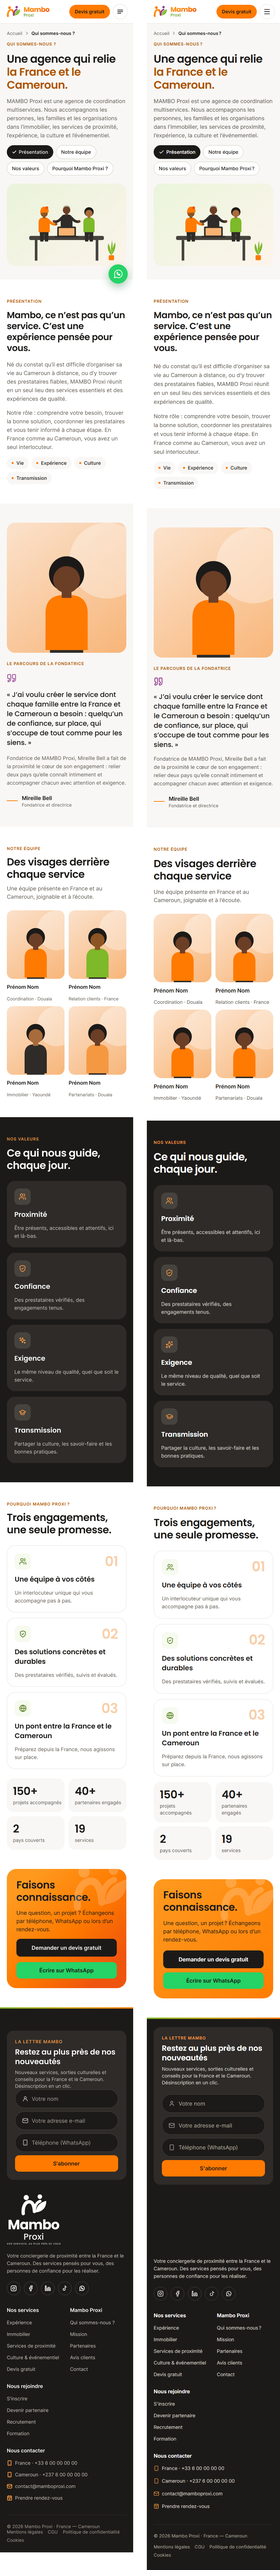
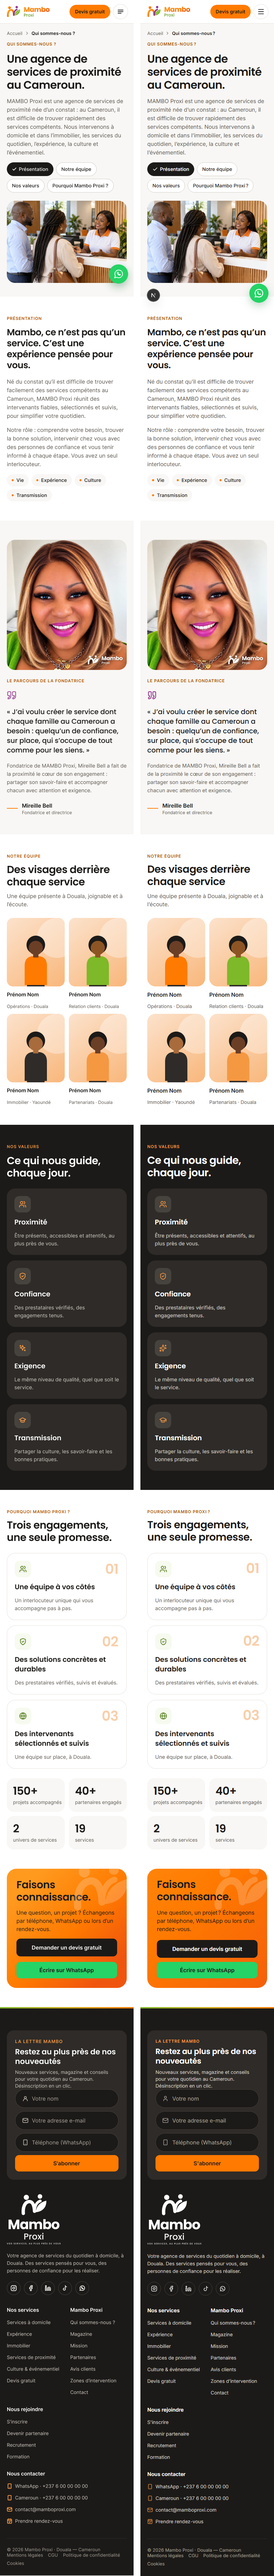
feat(pages): Qui sommes-nous d'après les nouvelles maquettes, équipe à Douala, photos du héros et de la fondatrice, portraits variés, version anglaise

Changed region(s): [[0.0, 0.0, 1.0, 1.0]]

diff --git a/src/mocks/data/pages.ts b/src/mocks/data/pages.ts
@@ -6,17 +6,44 @@ import type { Page, Visual } from '@/lib/api/schema';
  */
 const visual = (illustration: Visual['illustration']): Visual => ({ illustration, image: null, alt: '' });
 
+/** Photo des maquettes (`public/photos/`), avec l'illustration de repli. */
+const photo = (
+  illustration: Visual['illustration'],
+  file: string,
+  width: number,
+  height: number,
+  alt = '',
+): Visual => ({
+  illustration,
+  image: { id: `photo-${file}`, url: `/photos/${file}.png`, width, height, variants: [] },
+  alt,
+});
+
+/** Portraits provisoires de l'équipe (`63:4924`) : variantes de l'illustration exportées de Figma. */
+const portrait = (index: number): Visual => ({
+  illustration: 'portrait',
+  image: {
+    id: `portrait-${index}`,
+    url: `/illustrations/portraits/portrait-${index}.svg`,
+    width: 480,
+    height: 360,
+    variants: [],
+  },
+  alt: '',
+});
+
 const UPDATED_AT = '2026-10-05T08:00:00.000Z';
 
+/** Qui sommes-nous ? (`63:4730`, `63:5199`). */
 const quiSommesNous: Page = {
   key: 'qui-sommes-nous',
   title: 'Qui sommes-nous ?',
-  updatedAt: UPDATED_AT,
+  updatedAt: '2026-10-18T08:00:00.000Z',
   isPreview: false,
   seo: {
-    title: 'Qui sommes-nous ? Une agence entre la France et le Cameroun',
+    title: 'Qui sommes-nous ? Une agence de services de proximité au Cameroun',
     description:
-      'MAMBO Proxi, agence de coordination multiservices : immobilier, services de proximité, expérience, culture et événementiel, entre la France et le Cameroun.',
+      'MAMBO Proxi, agence de services de proximité à Douala : services à domicile, immobilier, services du quotidien, expérience, culture et événementiel, avec des intervenants de confiance.',
     ogImageUrl: null,
     noindex: false,
   },
@@ -27,9 +54,15 @@ const quiSommesNous: Page = {
       enabled: true,
       variant: 'page',
       eyebrow: 'Qui sommes-nous ?',
-      title: 'Une agence qui relie ==la France et le Cameroun.==',
-      lead: 'MAMBO Proxi est une agence de coordination multiservices. Nous accompagnons les personnes, les familles et les organisations dans l’immobilier, les services de proximité, l’expérience, la culture et l’événementiel.',
-      visual: visual('equipe'),
+      title: 'Une agence de services de proximité au Cameroun.',
+      lead: 'MAMBO Proxi est une agence de services de proximité née d’un constat : au Cameroun, il est difficile de trouver rapidement des services compétents. Nous intervenons à domicile et dans l’immobilier, les services du quotidien, l’expérience, la culture et l’événementiel.',
+      visual: photo(
+        'equipe',
+        'qsn-hero',
+        1280,
+        960,
+        'Une conseillère Mambo Proxi accueille un couple au comptoir de l’agence.',
+      ),
       showWhatsapp: false,
       anchors: [
         { label: 'Présentation', href: '#presentation', external: false },
@@ -48,8 +81,8 @@ const quiSommesNous: Page = {
       eyebrow: 'Présentation',
       title: 'Mambo, ce n’est pas qu’un service. C’est une expérience pensée pour vous.',
       paragraphs: [
-        'Né du constat qu’il est difficile d’organiser sa vie au Cameroun à distance, ou d’y trouver des prestataires fiables, MAMBO Proxi réunit en un seul lieu des services essentiels et des expériences de qualité.',
-        'Notre rôle : comprendre votre besoin, trouver la bonne solution, coordonner les prestataires et vous tenir informé à chaque étape. En France comme au Cameroun, vous avez un seul interlocuteur.',
+        'Né du constat qu’il est difficile de trouver facilement des services compétents au Cameroun, MAMBO Proxi réunit des intervenants fiables, sélectionnés et suivis, pour simplifier votre quotidien.',
+        'Notre rôle : comprendre votre besoin, trouver la bonne solution, intervenir chez vous avec des personnes de confiance et vous tenir informé à chaque étape. Vous avez un seul interlocuteur.',
       ],
       chips: ['Vie', 'Expérience', 'Culture', 'Transmission'],
       visual: null,
@@ -65,12 +98,12 @@ const quiSommesNous: Page = {
       eyebrow: 'Le parcours de la fondatrice',
       title: null,
       quote:
-        'J’ai voulu créer le service dont chaque famille entre la France et le Cameroun a besoin : quelqu’un de confiance, sur place, qui s’occupe de tout comme pour les siens.',
+        'J’ai voulu créer le service dont chaque famille au Cameroun a besoin : quelqu’un de confiance, sur place, qui s’occupe de tout comme pour les siens.',
       paragraphs: [
-        'Fondatrice de MAMBO Proxi, Mireille Bell a fait de la proximité le cœur de son engagement : relier deux pays qu’elle connaît intimement et accompagner chacun avec attention et exigence.',
+        'Fondatrice de MAMBO Proxi, Mireille Bell a fait de la proximité le cœur de son engagement : partager son savoir-faire et accompagner chacun avec attention et exigence.',
       ],
       signature: 'Mireille Bell — Fondatrice et directrice',
-      visual: visual('portrait'),
+      visual: photo('portrait', 'fondatrice', 1117, 1185, 'Mireille Bell, fondatrice de Mambo Proxi.'),
       chips: [],
     },
     {
@@ -81,12 +114,12 @@ const quiSommesNous: Page = {
       tone: 'light',
       eyebrow: 'Notre équipe',
       title: 'Des visages derrière chaque service',
-      lead: 'Une équipe présente en France et au Cameroun, joignable et à l’écoute.',
+      lead: 'Une équipe présente à Douala, joignable et à l’écoute.',
       members: [
-        { name: 'Prénom Nom', role: 'Coordination', location: 'Douala', visual: visual('portrait') },
-        { name: 'Prénom Nom', role: 'Relation clients', location: 'France', visual: visual('portrait') },
-        { name: 'Prénom Nom', role: 'Immobilier', location: 'Yaoundé', visual: visual('portrait') },
-        { name: 'Prénom Nom', role: 'Partenariats', location: 'Douala', visual: visual('portrait') },
+        { name: 'Prénom Nom', role: 'Opérations', location: 'Douala', visual: portrait(1) },
+        { name: 'Prénom Nom', role: 'Relation clients', location: 'Douala', visual: portrait(2) },
+        { name: 'Prénom Nom', role: 'Immobilier', location: 'Yaoundé', visual: portrait(3) },
+        { name: 'Prénom Nom', role: 'Partenariats', location: 'Douala', visual: portrait(4) },
       ],
     },
     {
@@ -103,7 +136,7 @@ const quiSommesNous: Page = {
         {
           icon: 'Users',
           title: 'Proximité',
-          text: 'Être présents, accessibles et attentifs, ici et là-bas.',
+          text: 'Être présents, accessibles et attentifs, au plus près de vous.',
         },
         {
           icon: 'ShieldCheck',
@@ -142,14 +175,14 @@ const quiSommesNous: Page = {
         {
           icon: 'Globe',
           number: '03',
-          title: 'Un pont entre la France et le Cameroun',
-          text: 'Préparez depuis la France, nous agissons sur place.',
+          title: 'Des intervenants sélectionnés et suivis',
+          text: 'Une équipe sur place, à Douala.',
         },
       ],
       figures: [
         { key: 'projects', value: 150, prefix: '', suffix: '+', decimals: 0, label: 'projets accompagnés' },
         { key: 'partners', value: 40, prefix: '', suffix: '+', decimals: 0, label: 'partenaires engagés' },
-        { key: 'countries', value: 2, prefix: '', decimals: 0, label: 'pays couverts' },
+        { key: 'universes', value: 2, prefix: '', decimals: 0, label: 'univers de services' },
         { key: 'services', value: 19, prefix: '', decimals: 0, label: 'services' },
       ],
       visual: null,
@@ -161,6 +194,165 @@ const quiSommesNous: Page = {
       title: 'Faisons\nconnaissance.',
       text: 'Une question, un projet ? Échangeons par téléphone, WhatsApp ou lors d’un rendez-vous.',
       primaryCta: { label: 'Demander un devis gratuit', href: '/devis', external: false },
+      showWhatsapp: true,
+    },
+  ],
+};
+
+/** Qui sommes-nous ? en anglais (`?lang=en`) : textes rédigés pour le site. */
+const quiSommesNousEn: Page = {
+  ...quiSommesNous,
+  title: 'About us',
+  seo: {
+    title: 'About us: a local services agency in Cameroon',
+    description:
+      'MAMBO Proxi, a local services agency in Douala: home services, real estate, everyday services, experiences, culture and events, with people you can trust.',
+    ogImageUrl: null,
+    noindex: false,
+  },
+  sections: [
+    {
+      id: 'hero',
+      type: 'hero',
+      enabled: true,
+      variant: 'page',
+      eyebrow: 'About us',
+      title: 'A local services agency in Cameroon.',
+      lead: 'MAMBO Proxi is a local services agency born from a simple observation: in Cameroon, it is hard to find skilled services quickly. We work in your home and in real estate, everyday services, experiences, culture and events.',
+      visual: photo(
+        'equipe',
+        'qsn-hero',
+        1280,
+        960,
+        'A Mambo Proxi adviser welcomes a couple at the agency’s front desk.',
+      ),
+      showWhatsapp: false,
+      anchors: [
+        { label: 'Who we are', href: '#presentation', external: false },
+        { label: 'Our team', href: '#notre-equipe', external: false },
+        { label: 'Our values', href: '#nos-valeurs', external: false },
+        { label: 'Why Mambo Proxi?', href: '#pourquoi-mambo', external: false },
+      ],
+    },
+    {
+      id: 'presentation',
+      type: 'textMedia',
+      reverse: false,
+      enabled: true,
+      anchor: 'presentation',
+      tone: 'light',
+      eyebrow: 'Who we are',
+      title: 'Mambo is more than a service. It’s an experience designed for you.',
+      paragraphs: [
+        'Born from the observation that skilled services are hard to find in Cameroon, MAMBO Proxi brings together reliable people, selected and monitored, to make your everyday life simpler.',
+        'Our role: understand your need, find the right solution, send trusted people to your home and keep you informed at every step. You have a single point of contact.',
+      ],
+      chips: ['Life', 'Experience', 'Culture', 'Sharing'],
+      visual: null,
+      quote: null,
+      signature: null,
+    },
+    {
+      id: 'fondatrice',
+      type: 'textMedia',
+      reverse: false,
+      enabled: true,
+      tone: 'muted',
+      eyebrow: 'Our founder’s story',
+      title: null,
+      quote:
+        'I wanted to create the service every family in Cameroon needs: someone trustworthy, on the spot, who takes care of everything as if for their own.',
+      paragraphs: [
+        'Founder of MAMBO Proxi, Mireille Bell has made closeness the heart of her commitment: sharing her know-how and supporting everyone with care and high standards.',
+      ],
+      signature: 'Mireille Bell — Founder and director',
+      visual: photo('portrait', 'fondatrice', 1117, 1185, 'Mireille Bell, founder of Mambo Proxi.'),
+      chips: [],
+    },
+    {
+      id: 'equipe',
+      type: 'team',
+      enabled: true,
+      anchor: 'notre-equipe',
+      tone: 'light',
+      eyebrow: 'Our team',
+      title: 'The faces behind every service',
+      lead: 'A team based in Douala, easy to reach and ready to listen.',
+      members: [
+        { name: 'First Last', role: 'Operations', location: 'Douala', visual: portrait(1) },
+        { name: 'First Last', role: 'Customer relations', location: 'Douala', visual: portrait(2) },
+        { name: 'First Last', role: 'Real estate', location: 'Yaoundé', visual: portrait(3) },
+        { name: 'First Last', role: 'Partnerships', location: 'Douala', visual: portrait(4) },
+      ],
+    },
+    {
+      id: 'valeurs',
+      type: 'cardGrid',
+      enabled: true,
+      anchor: 'nos-valeurs',
+      tone: 'dark',
+      layout: 'cards',
+      columns: 4,
+      eyebrow: 'Our values',
+      title: 'What guides us, every day.',
+      items: [
+        { icon: 'Users', title: 'Closeness', text: 'Being present, available and attentive, close to you.' },
+        { icon: 'ShieldCheck', title: 'Trust', text: 'Vetted providers, commitments kept.' },
+        {
+          icon: 'Sparkles',
+          title: 'High standards',
+          text: 'The same level of quality, whatever the service.',
+        },
+        {
+          icon: 'GraduationCap',
+          title: 'Sharing',
+          text: 'Passing on culture, know-how and good practice.',
+        },
+      ],
+    },
+    {
+      id: 'pourquoi',
+      type: 'featureList',
+      enabled: true,
+      anchor: 'pourquoi-mambo',
+      tone: 'light',
+      eyebrow: 'Why Mambo Proxi?',
+      title: 'Three commitments, one promise.',
+      items: [
+        {
+          icon: 'Users',
+          number: '01',
+          title: 'A team by your side',
+          text: 'A single point of contact who guides you step by step.',
+        },
+        {
+          icon: 'ShieldCheck',
+          number: '02',
+          title: 'Practical, lasting solutions',
+          text: 'Providers who are vetted, monitored and reviewed.',
+        },
+        {
+          icon: 'Globe',
+          number: '03',
+          title: 'Selected, monitored providers',
+          text: 'A team on the ground, in Douala.',
+        },
+      ],
+      figures: [
+        { key: 'projects', value: 150, prefix: '', suffix: '+', decimals: 0, label: 'projects supported' },
+        { key: 'partners', value: 40, prefix: '', suffix: '+', decimals: 0, label: 'committed partners' },
+        { key: 'universes', value: 2, prefix: '', decimals: 0, label: 'service areas' },
+        { key: 'services', value: 19, prefix: '', decimals: 0, label: 'services' },
+      ],
+      visual: null,
+    },
+    {
+      id: 'cta',
+      type: 'ctaBand',
+      enabled: true,
+      title: 'Let’s get\nacquainted.',
+      text: 'A question, a project? Let’s talk by phone, on WhatsApp or at an appointment.',
+      primaryCta: { label: 'Request a free quote', href: '/devis', external: false },
       showWhatsapp: true,
     },
   ],
@@ -729,19 +921,6 @@ const suiviMambo: Page = {
   ],
 };
 
-/** Photo des maquettes (`public/photos/`), avec l'illustration de repli. */
-const photo = (
-  illustration: Visual['illustration'],
-  file: string,
-  width: number,
-  height: number,
-  alt = '',
-): Visual => ({
-  illustration,
-  image: { id: `photo-${file}`, url: `/photos/${file}.png`, width, height, variants: [] },
-  alt,
-});
-
 /** Magazine, édition n° 1 (`254:26265`, `254:26493`). */
 const magazine: Page = {
   key: 'magazine',
@@ -1084,6 +1263,7 @@ export const pages: Partial<Record<Page['key'], Page>> = {
 
 /** Pages traduites (`?lang=en`) ; une page non encore traduite est servie en français, comme le fait l'API. */
 export const pagesEn: Partial<Record<Page['key'], Page>> = {
+  'qui-sommes-nous': quiSommesNousEn,
   magazine: magazineEn,
   'zones-d-intervention': zonesEn,
 };
